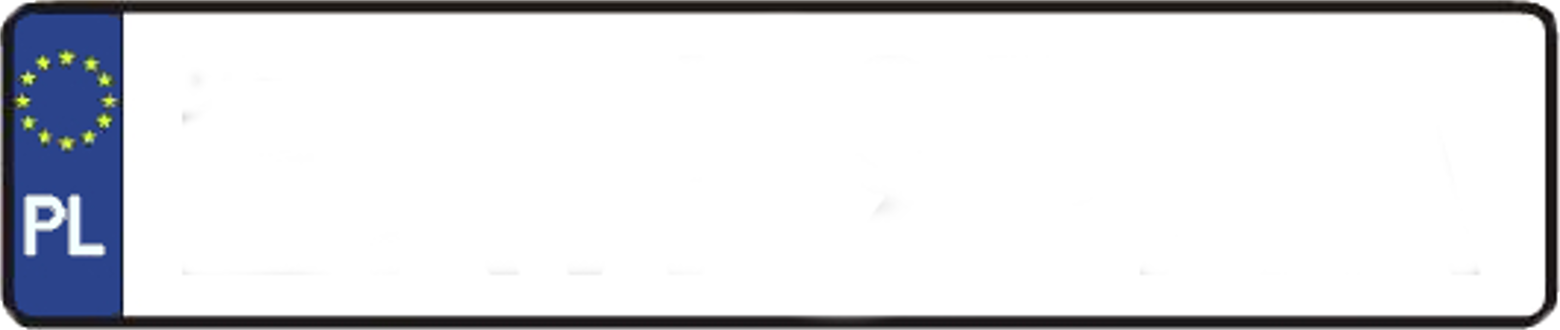
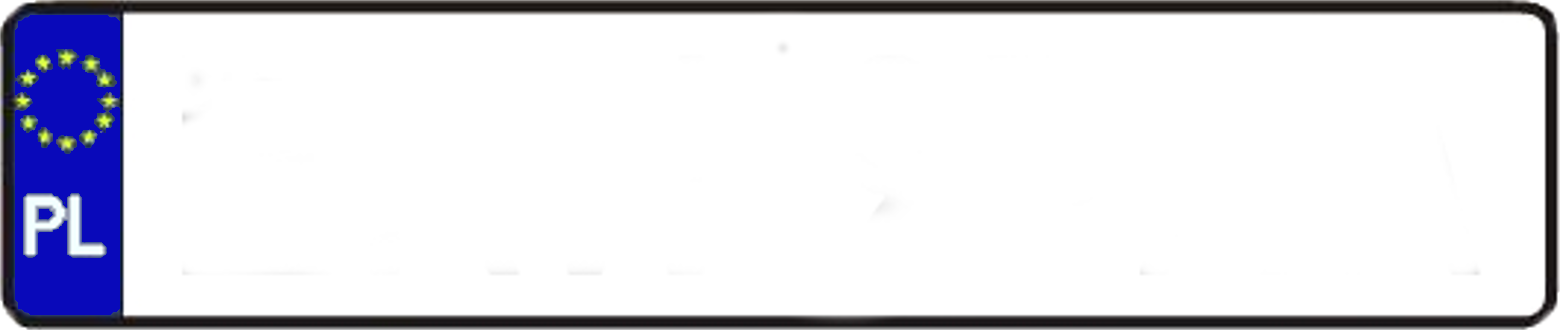
Poland hologram mark added.

Changed region(s): [[0.0, 0.0303, 0.0923, 0.9697]]

diff --git a/supertool.py b/supertool.py
@@ -137,6 +137,20 @@ def createJson(file_name, coordinates, outputDir, i, gauss, motion):
 	json_file.write(json_string)
 	json_file.close()
 
+def changeBlckAndWhiteValues(im_src):
+	(B, G, R) = cv2.split(im_src)
+
+	R[R == 0] = 50
+	G[G == 0] = 50
+	B[B == 0] = 50
+
+	R[R == 255] = 240
+ 	G[G == 255] = 240
+ 	B[B == 255] = 240
+
+ 	im_src = cv2.merge([B, G, R])
+ 	return im_src
+
 # Function returns final coordinates of the license plate included in output image
 def getFinalCoords(coordinates_x, coordinates_y):
 	new_coords_x = []
@@ -198,6 +212,8 @@ def getSourceImage(file_name):
 	# Resize registration number to apply antialiasing
 	im_src = cv2.resize(im_src, (0,0), fx=0.375, fy=0.375, interpolation = cv2.INTER_AREA)
 
+	im_src = changeBlckAndWhiteValues(im_src)
+
 	im_src = cv2.fastNlMeansDenoisingColored(im_src,None,8,8,7,21)
 
     #Application of Gaussian noise
@@ -248,73 +264,6 @@ def applyMotionBlur(image):
 	output = cv2.filter2D(image, -1, kernel_motion_blur)
 
 	return output
-
-def warpImage(img):
-	rows, cols = img.shape[:2]
-
-	#####################
-	# Vertical wave
-
-	img_output = np.zeros(img.shape, dtype=img.dtype)
-
-	for i in range(rows):
-	    for j in range(cols):
-	        offset_x = int(25.0 * math.sin(2 * 3.14 * i / 180))
-	        offset_y = 0
-	        if j+offset_x < rows:
-	            img_output[i,j] = img[i,(j+offset_x)%cols]
-	        else:
-	            img_output[i,j] = 0
-
-	showImage(img, 'Input')
-	showImage(img_output, 'Vertical wave')
-
-	#####################
-	# Horizontal wave
-
-	img_output = np.zeros(img.shape, dtype=img.dtype)
-
-	for i in range(rows):
-	    for j in range(cols):
-	        offset_x = 0
-	        offset_y = int(16.0 * math.sin(2 * 3.14 * j / 150))
-	        if i+offset_y < rows:
-	            img_output[i,j] = img[(i+offset_y)%rows,j]
-	        else:
-	            img_output[i,j] = 0
-
-	showImage(img_output, 'Horizontal wave')
-
-	#####################
-	# Both horizontal and vertical 
-
-	img_output = np.zeros(img.shape, dtype=img.dtype)
-
-	for i in range(rows):
-	    for j in range(cols):
-	        offset_x = int(20.0 * math.sin(2 * 3.14 * i / 150))
-	        offset_y = int(20.0 * math.cos(2 * 3.14 * j / 150))
-	        if i+offset_y < rows and j+offset_x < cols:
-	            img_output[i,j] = img[(i+offset_y)%rows,(j+offset_x)%cols]
-	        else:
-	            img_output[i,j] = 0
-
-	showImage(img_output, 'Multidirectional wave')
-
-	#####################
-	# Concave effect
-
-	img_output = np.zeros(img.shape, dtype=img.dtype)
-
-	for i in range(rows):
-	    for j in range(cols):
-	        offset_x = int(128.0 * math.sin(2 * 3.14 * i / (2*cols)))
-	        offset_y = 0
-	        if j+offset_x < cols:
-	            img_output[i,j] = img[i,(j+offset_x)%cols]
-	        else:
-	            img_output[i,j] = 0
-
 
 # Main function
 def main():

diff --git a/rzgenerator.py b/rzgenerator.py
@@ -217,12 +217,15 @@ def main():
 		elif (nation == 'pl'):
 			background = Image.open('/home/svoren258/Dokumenty/FIT_VUT/3_BIT/IBP/IBP/PL/vzor_pl.png', 'r')
 			if (i % 2 == 0):
+				background.paste(Image.open('/home/svoren258/Dokumenty/FIT_VUT/3_BIT/IBP/IBP/PL/znamka.png'),(545,135))
 				characters += addDistrictPL((170,55),(348,55),0,background, source)
-				offsets = [(635,55),(805,55),(978,55),(1155,55),(1330,55)]
+				offsets = [(635,55),(805,55),(985,55),(1155,55),(1330,55)]
 			elif (i % 4 == 0):
+				background.paste(Image.open('/home/svoren258/Dokumenty/FIT_VUT/3_BIT/IBP/IBP/PL/znamka.png'),(715,135))
 				characters += addDistrictPL((170,55),(348,55),(530,55),background, source)
 				offsets = [(805,55),(978,55),(1155,55),(1330,55)]
 			else:
+				background.paste(Image.open('/home/svoren258/Dokumenty/FIT_VUT/3_BIT/IBP/IBP/PL/znamka.png'),(640,135))
 				characters += addDistrictPL((150,55),(315,55),(480,55),background, source)
 				offsets = [(700,55),(870,55),(1040,55),(1205,55),(1370,55)]
 
